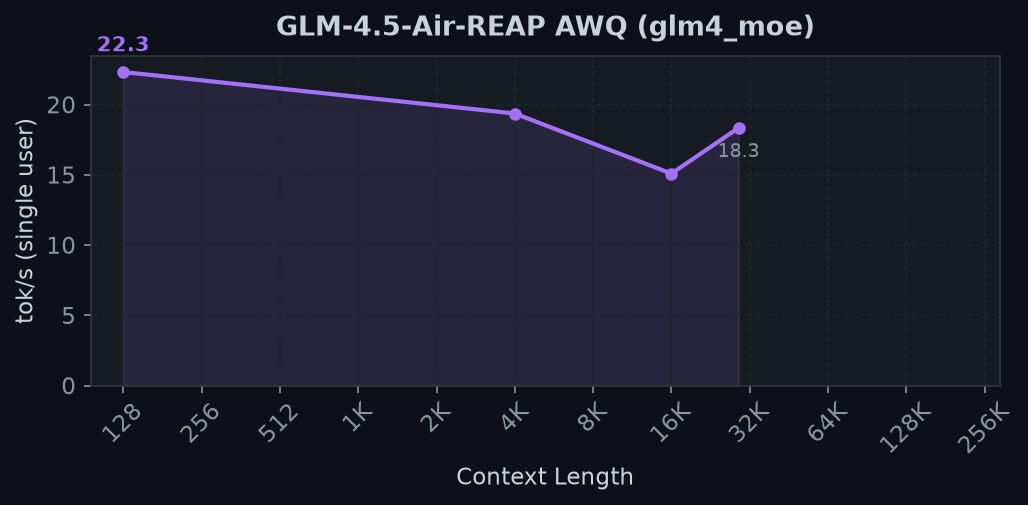
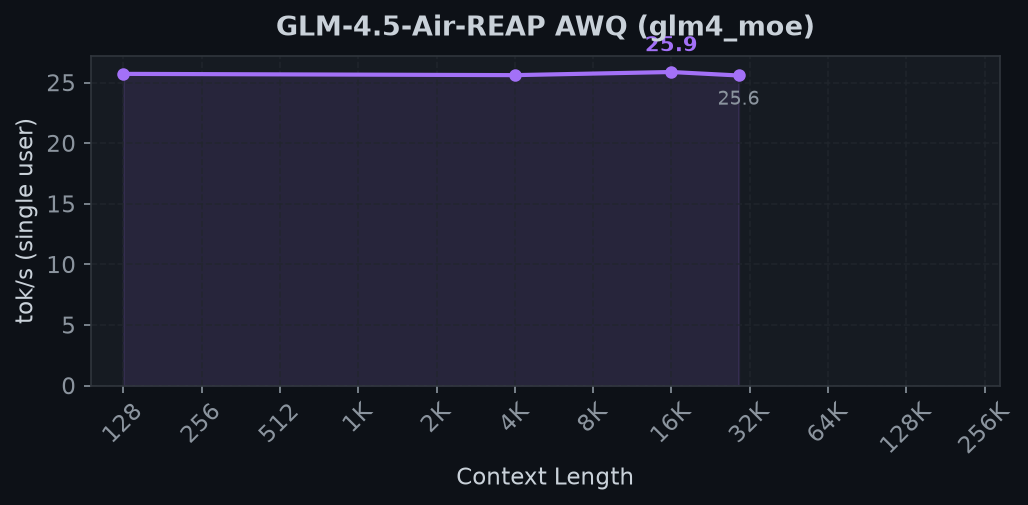
Add patch 085 (GLM-4.5 BF16 collective) + fix contaminated glm45-air data
Patch 085: opts GLM-4.5 MoE (glm45-air, glm4_moe.py) out of the HIP FP32
attention all-reduce — same switch as patches 080/084. Reverse-confirmed on
2x R9700: ON 26.4/25.8/25.7 vs OFF 25.4/25.5/25.4 (5-run) = +1.3-4.1%, coherent.

Also corrects glm45-air's Phase-0 results.json: the original 22.3/19.4/15.1/18.3
curve was cold-cache-contaminated (glm45-air was the first sweep model; wide
first-run spreads skewed the 3-run median). The clean 5-run curve is ~25.7 flat
at 128/4K/16K/29.7K — a +71% correction at 16K. Regenerated its chart, the fleet
charts, and the README fleet-table row. The rest of the fleet was monotonic, so
this contamination was isolated to glm45-air.

Patch index -> 58 numeric. Full-series pristine replay gate at the task-14 rollup.

Claude-Session: https://claude.ai/code/session_015WWeWnn5obCT6KbydHXKhC

diff --git a/PATCHES.md b/PATCHES.md
@@ -1,6 +1,6 @@
 # Patch collections
 
-The repository carries **59 active patches across three environments**:
+The repository carries **60 active patches across three environments**:
 
 | Collection | Target | Count | Purpose |
 |---|---|---:|---|
@@ -13,7 +13,7 @@ Tooling files that support REAM/REAP are not counted as patches. Upstream contri
 
 ## SGLang series
 
-Apply the 57 numeric patches in filename order to pristine SGLang v0.5.15. Patch 072 was removed because
+Apply the 58 numeric patches in filename order to pristine SGLang v0.5.15. Patch 072 was removed because
 transformers 5.12.1 provides the Gemma 4 unified configuration and processor natively. Patch 083 replaces
 that count with the Mistral tokenizer-backend correction required by Devstral and Devstral 2.
 
@@ -21,7 +21,7 @@ that count with the Mistral tokenizer-backend correction required by Devstral an
 |---|---|---:|
 | Core RDNA4 enablement | 001 002 003 008 059 060 063 | 7 |
 | MoE serving and routing | 004 028 031 033 037 066 075 076 078 079 | 10 |
-| Attention and numerics | 011 027 065 077 080 081 084 | 7 |
+| Attention and numerics | 011 027 065 077 080 081 084 085 | 8 |
 | AWQ int4 | 006 030 032 041 | 4 |
 | FP8 | 005 039 042 044 045 074 082 | 7 |
 | Mamba2 hybrids | 043 046 047 049 073 | 5 |

diff --git a/patches/README.md b/patches/README.md
@@ -1,6 +1,6 @@
 # SGLang v0.5.15 RDNA4 patches
 
-This directory contains the **57 active numeric patches** applied to pristine SGLang v0.5.15 for the
+This directory contains the **58 active numeric patches** applied to pristine SGLang v0.5.15 for the
 2× Radeon AI PRO R9700 serving stack. The default tree is `/data/sgl-v0515`; the default conda environment
 is `sglang-triton36-v0515`.
 
@@ -152,6 +152,7 @@ can be proposed upstream. `Partial` requires a fresh comparison with upstream be
 | 062 | `cohere2moe-v0513-hybrid-swa-classification` | Candidate | Classifies Cohere2 MoE as hybrid SWA so North receives valid layer and window cache metadata. |
 | 083 | `mistral-common-backend-optout` | Candidate | Reroutes MistralCommonBackend tokenizers to TokenizersBackend so rendered special tokens retain their IDs. |
 | 084 | `rdna4-qwen3moe-bf16-attention-allreduce` | Candidate | Opts Qwen3-MoE (coder-30b, coder-reap-25b) out of the HIP FP32 attention all-reduce, using the BF16 collective. Measured +1-3% single-user decode, coherent; FP32 stays the default for recurrent hybrids. |
+| 085 | `rdna4-glm4moe-bf16-attention-allreduce` | Candidate | Opts GLM-4.5 MoE (glm45-air) out of the HIP FP32 attention all-reduce, using the BF16 collective. Reverse-confirmed +1.3-4.1% single-user decode, coherent; FP32 stays the default for recurrent hybrids. |
 
 ## Build stack
 

diff --git a/README.md b/README.md
@@ -86,7 +86,7 @@ Single-user decode throughput across the fleet, measured with one consistent met
 | Qwen3-Coder-30B-A3B | AWQ MoE | 86.2 (20) | 57.1 (29K) |
 | Qwen3-Coder-REAP-25B-A3B | AWQ MoE | 87.1 (20) | 18.2 (197K) |
 | Qwen3-Coder-Next-REAM-60B | AWQ MoE + DeltaNet | 48.6 (20) | 22.7 (110K) |
-| GLM-4.5-Air-REAP | AWQ MoE | 22.3 (17) | 18.3 (27K) |
+| GLM-4.5-Air-REAP | AWQ MoE | 25.7 (17) | 25.6 (27K) |
 | Qwen3.5-28B-A3B-REAP | AWQ MoE + DeltaNet | 66.7 (22) | 21.1 (197K) |
 | Qwen3.6-35B-A3B | AWQ MoE + DeltaNet | 67.0 (22) | 22.0 (197K) |
 | Gemma 4 26B-A4B | AWQ MoE + SWA | 74.8 (25) | 58.3 (15K) |